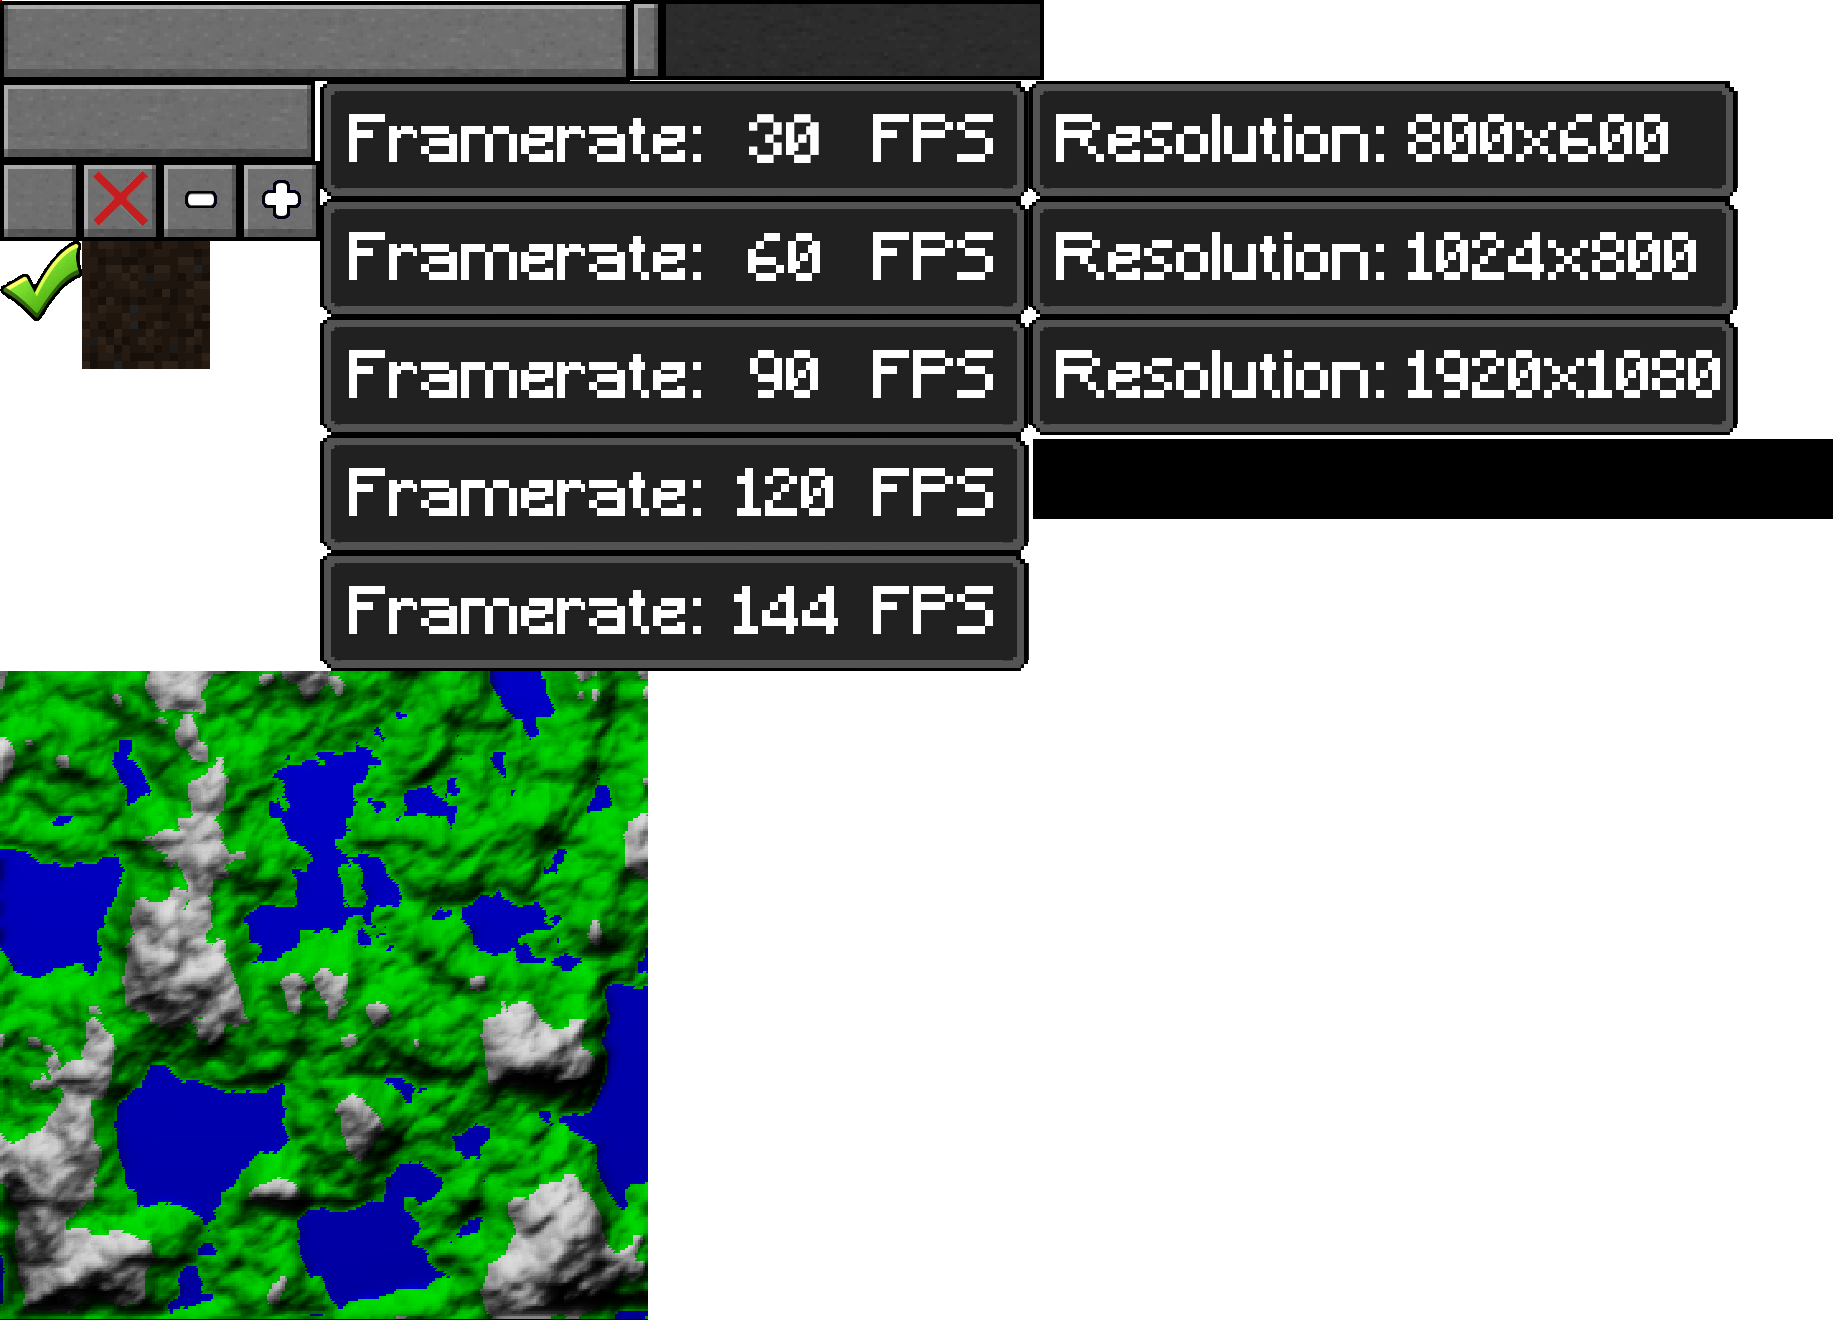
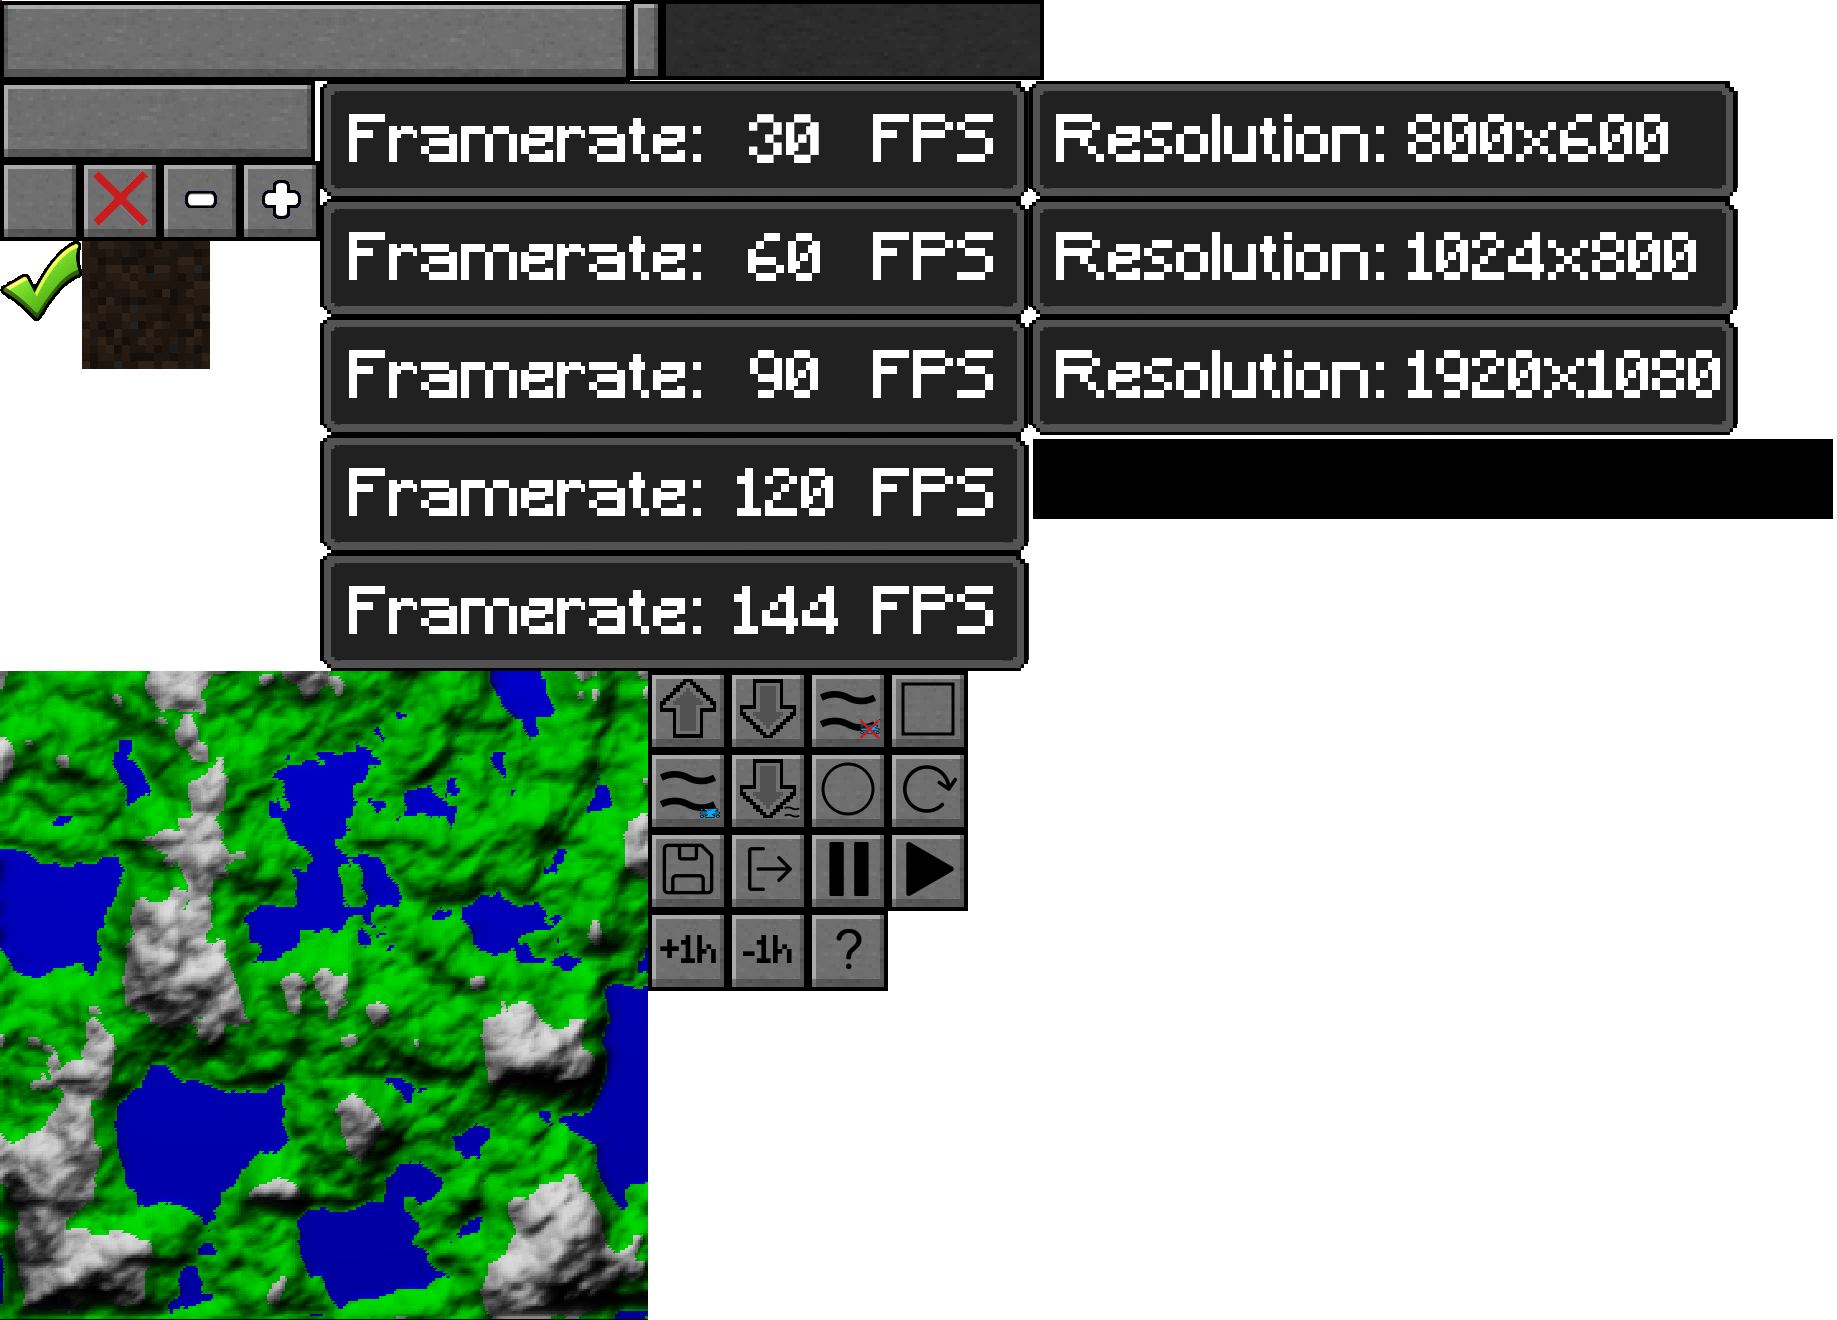
[+] Textures for game buttons

Changed region(s): [[0.3413, 0.497, 0.5275, 0.7765]]

diff --git a/include/menus.h b/include/menus.h
@@ -64,7 +64,7 @@
     s->win->r_tex = sfRenderTexture_create(ns.x, ns.y, 0);
 
     #define LINEEDIT_TIME 400000
-    #define NB_BUTTONS 12
+    #define NB_BUTTONS 13
 
 static const sfColor sfGrey = {128, 128, 128, 255};
 
@@ -267,7 +267,23 @@ static const sfIntRect settings_rects[11] = {
     {1028, 317, 709, 118},
     {80, 161, 80, 80}
 };
-
+static const sfIntRect gb_rects[] = {
+    {648, 671, 80, 80}, // up
+    {808, 671, 80, 80}, // average without water
+    {648, 751, 80, 80}, // average with water
+    {728, 671, 80, 80}, // down
+    {728, 751, 80, 80}, // down average
+    {808, 751, 80, 80}, // circle
+    {888, 751, 80, 80}, // reload
+    {648, 831, 80, 80}, // save
+    {728, 831, 80, 80}, // quit
+    {808, 831, 80, 80}, // pause
+    {648, 911, 80, 80}, // +1h
+    {728, 911, 80, 80}, // -1h
+    {808, 911, 80, 80}, // help
+    {888, 831, 80, 80}, // play
+    {888, 671, 80, 80}, // rectangle
+};
 static const sfIntRect line_edit_rect = {1029, 435, 808, 88};
 static const sfIntRect mc_rects[] = {
     {160, 161, 80, 80},
@@ -303,11 +319,7 @@ static const float main_buts_sf[4][2] = {
     {0.7, 0.12}, {0.7, 0.12}, {0.33, 0.12}, {0.33, 0.12}
 };
 static const float select_sf[2] = {0.27, 0.1};
-static const float gb_size[10][2] = {
-    {0.25, 0.25}, {0.25, 0.25}, {0.25, 0.25},
-    {0.25, 0.25}, {0.25, 0.25}, {0.25, 0.25},
-    {0.2, 0.25}, {0.2, 0.25}, {0.2, 0.25}, {0.2, 0.25}
-};
+static const float gb_size[2] = {0.22, 0.22};
 static const float mc_size_fac[4][2] = {
     {0.06, 0.06}, {0.06, 0.1}, {0.23, 0.1}, {0.23, 0.1}
 };
@@ -483,5 +495,6 @@ unsigned map_size(char const *map);
 map_entry_t *entry_at_list(list_t *l, int index);
 char const *get_level_name(window_t *win);
 size_t get_level_size(window_t *win);
+void restart_map(void *win);
 
 #endif

diff --git a/src/menus/game/buttons/create.c b/src/menus/game/buttons/create.c
@@ -54,7 +54,7 @@ sfSprite *draw_gb(game_t *ga)
             pos.x += tex_size.x * 0.3;
         }
         pos.x = tex_size.x * 0.2;
-        pos.y += tex_size.y * 0.3;
+        pos.y += tex_size.y * 0.37;
     }
     sfRenderTexture_display(g->rtex);
     return init_sprite_from_texture(sfRenderTexture_getTexture(g->rtex));
@@ -62,17 +62,17 @@ sfSprite *draw_gb(game_t *ga)
 
 void create_gb_buttons(game_buttons_t *gb, sfVector2f size)
 {
-    sfVector2f n_size = {size.x * gb_size[0][0], size.y * gb_size[0][1]};
-    sfIntRect rect = {0, 161, 80, 80};
+    sfVector2f n_size = {size.x * gb_size[0], size.x * gb_size[0]};
     void (*actions[NB_BUTTONS])(void *) = {
         NULL, NULL, NULL,
         NULL, NULL, switch_brush_type,
-        save_game, quit_game, get_help,
-        pause_game, add_hour, sub_hour
+        restart_map, save_game, quit_game,
+        pause_game, add_hour, sub_hour,
+        get_help
     };
 
     for (int i = 0; i < NB_BUTTONS; i++) {
-        gb->buttons[i] = init_button(global_texture(), rect,
+        gb->buttons[i] = init_button(global_texture(), gb_rects[i],
         (sfVector2f){0, 0}, n_size, "", actions[i]);
         center_sprite(gb->buttons[i]->sprite);
     }

diff --git a/include/tooltips.h b/include/tooltips.h
@@ -10,18 +10,18 @@
 
 static const char *tips[13] = {
     "  [1] Rise up area ",
-    "  [2] Smooth towards average height ",
-    "  [3] Add water ",
+    "  [2] Smooth toward average height (without water) ",
+    "  [3] Smooth towards average height (with water) ",
     "  [4] Lower area ",
     "  [5] Smooth towards lowest point ",
     "  [T] Switch brush type ",
+    "  [R] Restart generation ",
     "  [CTRL+S] Save map ",
     "  [ESC] Quit ",
-    "  Help ",
     "  [P] Pause ",
-    "  [RIGHT] +1 hour",
-    "  [LEFT] -1 hour",
-    "  [R] Refresh"
+    "  [RIGHT] +1 hour ",
+    "  [LEFT] -1 hour ",
+    "  Help "
 };
 
 #endif // TOOL_TIP_H

diff --git a/src/mini_map/mini_map.c b/src/mini_map/mini_map.c
@@ -22,7 +22,7 @@ void destroy_minimap(minimap_t *m)
 void init_functions(minimap_t *m)
 {
     void (*actions[NB_ACTIONS])(world_t *, minimap_t *) = {
-        &average_d_br, &average_br, &average_w_br, &up_br, &down_br
+        &up_br, &average_br, &average_w_br, &down_br, &average_d_br
     };
 
     for (int i = 0; i < NB_ACTIONS; i++)
@@ -51,7 +51,7 @@ minimap_t *create_minimap(sfVector2f size, int map_size)
     m->size = size;
     m->s_br = 1;
     m->mouse_pos = (sfVector2f){-10000, -10000};
-    m->state = 4;
+    m->state = 0;
     m->map_size = map_size;
     init_functions(m);
     return m;

diff --git a/src/menus/game/buttons/other_actions.c b/src/menus/game/buttons/other_actions.c
@@ -7,6 +7,14 @@
 
 #include "menus.h"
 
+void restart_map(void *win)
+{
+    window_t *w = win;
+    game_t *g = w->menus[EDIT_MAP];
+
+    refresh_map(g);
+}
+
 void create_tooltip(game_buttons_t *g, sfVector2f tex_size)
 {
     g->tooltip = init_text("", tex_size.y * 0.075);
@@ -31,4 +39,6 @@ void switch_brush_type(void *win)
     minimap_t *mini = g->minimap;
 
     mini->is_circle = !mini->is_circle;
+    sfSprite_setTextureRect(g->gb->buttons[5]->sprite,
+    gb_rects[5 + 9 * mini->is_circle]);
 }

diff --git a/src/menus/game/buttons/actions.c b/src/menus/game/buttons/actions.c
@@ -37,4 +37,6 @@ void pause_game(void *win)
     game_t *ga = w->menus[EDIT_MAP];
 
     ga->win->params->pause = !ga->win->params->pause;
+    sfSprite_setTextureRect(ga->gb->buttons[9]->sprite,
+    gb_rects[9 + 4 * ga->win->params->pause]);
 }
